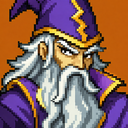
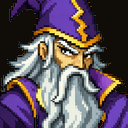
Frame the portraits, and take the orange out from behind them
Two things the game gets right that the site did not. Every hero in the client
sits in a rounded plate with a light rim and a dark well behind it, and that
frame is most of why a row of them reads as a roster rather than six loose
pictures — a 1px square outline was not it. So: a 2px rim, rounded, a dark line
inset just inside it so the picture sits *in* the plate, and a shadow lifting
the plate off the panel.

And the portraits came on a bright orange ground, which belongs to no part of
this site. It is gone.

Not by a filter — that dims the character along with the background — and not by
replacing a colour, because the grounds are not flat: thousands of distinct
values, the commonest only two to ten per cent of the image. What works is a
flood fill from the edges, which takes whatever is connected to the border and
close to it in colour, and leaves everything the character is made of alone.

That left an anti-aliased orange rim the tolerance could not reach, so a second
pass takes any warm pixel touching the filled region — the background's own
edge rather than the character's. Checked by looking at all six afterwards
rather than by trusting the number: the first time round I compared two
coverage figures produced by two different definitions of "orange", which is
not a comparison at all.

The originals in ~/Downloads are untouched; this worked on the repository's
copies through a scratch directory.
[…]

diff --git a/web/src/styles.css b/web/src/styles.css
@@ -482,15 +482,39 @@ a:hover { color: var(--link-hot); }
 .who__hero--row { font-weight: 400; font-size: 0.72rem; color: var(--text-dim); line-height: 1.2; }
 /** The line under a hero's name now carries what the player has done. */
 .who__trophies { display: block; font-size: 0.75rem; color: var(--text-dim); }
+/*
+ * A framed portrait, the way the game frames one.
+ *
+ * The game puts every hero in a rounded plate with a light rim and a dark well
+ * behind it, and that frame is most of why a row of them reads as a roster
+ * rather than as six loose pictures. A 1px square outline was not it.
+ *
+ * The inset shadow is the depth: a dark line just inside the rim, so the
+ * picture sits *in* the plate instead of on top of it. The outer shadow lifts
+ * the plate off the panel by about as much.
+ */
 .portrait {
-  width: 26px; height: 26px; flex: none; image-rendering: pixelated;
+  width: 28px; height: 28px; flex: none;
+  /* The art is 128px drawn at 28: nearest-neighbour keeps the pixels crisp
+     rather than smearing them, which is what the art was drawn for. */
+  image-rendering: pixelated;
   background: var(--page-sunk) center / cover no-repeat;
-  border: 1px solid var(--frame-dark);
+  border: 2px solid var(--frame-dark);
+  border-radius: 5px;
+  box-shadow:
+    inset 0 0 0 1px rgba(0, 0, 0, 0.55),
+    0 1px 3px rgba(0, 0, 0, 0.5);
   display: grid; place-items: center;
   font-size: 0.6rem; color: var(--text-faint);
+  overflow: hidden;
 }
 /** Your own is larger. Size finds you on a page; a coloured ring is a light. */
-.portrait--me { width: 34px; height: 34px; font-size: 0.7rem; border-color: var(--frame-lit); }
+.portrait--me {
+  width: 38px; height: 38px;
+  font-size: 0.7rem;
+  border-color: var(--frame-lit);
+  border-radius: 6px;
+}
 
 /*
  * A title wears the tier its trophy count earned — in the tier ink, the

diff --git a/web/src/pages/Player.jsx b/web/src/pages/Player.jsx
@@ -33,7 +33,11 @@ const SHOWN = [
 const Hero = ({ hero }) => (
   <div className="hero">
     <div className="hero__head">
-      <Portrait hero={hero} mine={hero.active} />
+      {/* Not the `--me` plate. That one means "this is you, among other
+          people"; here every hero is the same person's and the distinction
+          being drawn is which is being played — which the line beside it
+          already says, and a bigger plate on one card only breaks the row. */}
+      <Portrait hero={hero} />
       <span>
         <span className="hero__name">
           {hero.name}
